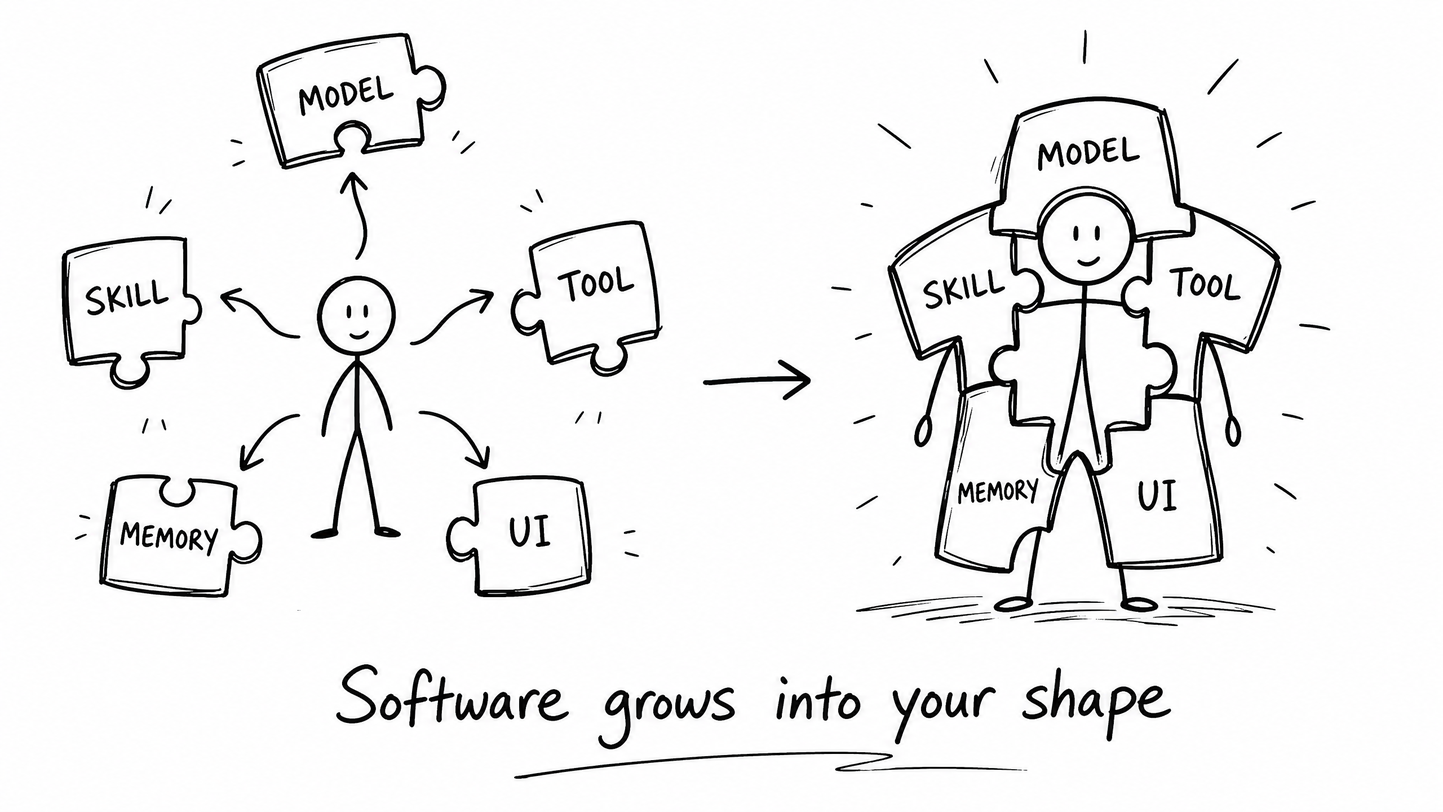
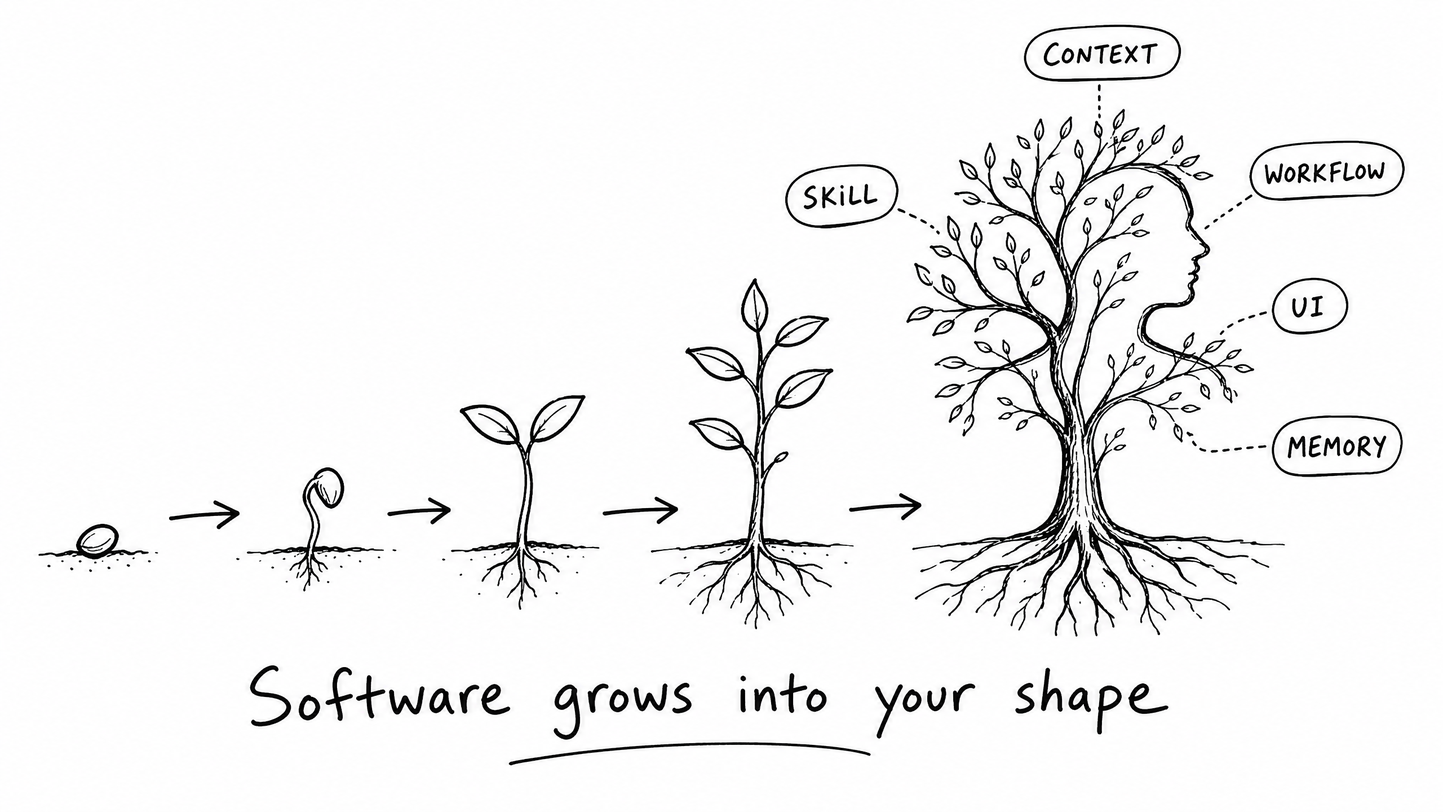
update: new content and images for AI orchestration engine post

diff --git a/source/_posts/ai-orchestration-engine.md b/source/_posts/ai-orchestration-engine.md
@@ -1,5 +1,5 @@
 ---
-title: "AI办公真正缺的，是一层让软件适应人的编排引擎"
+title: "AI办公真正缺的，是让软件长成你的样子"
 date: 2026-08-12
 updated: 2026-08-12
 tags:
@@ -13,149 +13,178 @@ featured_image: /gallery/ai-orchestration-engine/cover.jpg
 description: "AI 办公大战争的是给软件增加能力，但真正缺少的，是一层让软件慢慢长成使用者样子的编排引擎。"
 ---
 
-# AI办公真正缺的，是一层让软件适应人的编排引擎
+# AI办公真正缺的，是让软件长成你的样子
 
 ---
 
-## 一个越来越强烈的感觉
+## 半年里，我重复做了两次相同的事
 
-最近半年，我有一个越来越强烈的感觉。
+今年我自己做了两个东西。
 
-AI 产品越来越强，软件却没有我们想象中那么自由。打开 Codex、Claude Code、WorkBuddy、千问办公，再看看现在大量 Agent 产品，里面已经塞满了东西。模型、搜索、浏览器、文件、Skill、Agent、自动任务、MCP、Computer Use。以前做不到的事情，现在很多都能做了。
+第一个叫 Utter，是一套属于自己的 AI 语音输入法。最初的原因很简单，市面上的语音输入产品已经不少，识别速度、准确率和文字润色也都做得不错。可真正每天使用以后，我还是会不断遇到一些很细的需求。快捷键应该怎么触发，什么时候保留口语，什么时候整理成书面表达，技术名词怎么识别，当前窗口里的内容要不要成为上下文，不同软件里应该输出怎样的文字。
 
-可站在用户这边看，会发现一个很奇怪的问题：
+这些需求很难说有多大的市场。它们太细了，细到一家大公司很难专门为我设计。可当模型和开发工具都变强以后，我发现自己做一个似乎也没有那么难。于是我做了 Utter。
 
-**软件依然要求人适应软件。**
+几个月后，同样的事情又发生了一遍。这一次是 AI 编程。
 
-厂商决定聊天框长什么样，决定有哪些 Agent，设计几十个 Skill，准备一堆模板，再告诉用户：「你可以用 AI 完成很多事情。」用户确实拥有了更多能力，但用户自己的工作方式，依然很难真正进入产品结构。
+Claude Code、Codex 这些工具已经足够强，我还是做了 Code2。我没有继续使用行业里已经很常见的聊天框。Code2 采用「document-first」的交互，Prompt 本身是一份可以编辑和组织的文档，Skill 可以通过「/」直接插入文档，底下再统一驱动 Claude Code、Codex 和 Grok。
 
-我越来越怀疑，今天的 AI 办公大战，大家争的还主要是「给软件增加能力」。真正可能改变软件形态的那一层，还没有出现。
+我后来又把它的存储、Agent Loop、Git、记忆、场景和终端逐渐拆成插件。Code2 内部不再是一个固定程序加上一些扩展点，它更接近一张可以重新组合的插件图。插件声明自己依赖什么、提供什么，也可以在运行中被加载、替换和卸载。
 
-## Coding Agent 已经开始证明：统一的产品形态很难满足所有人
+回头看时，我才意识到，自己在半年里重复做了两次相同的事情。市场上已经有能用的软件，我仍然想做一个自己的版本。这里缺的并非某个功能，我真正想要的是：
 
-最近 Coding Agent 的变化很值得看。
+**让软件按照我的工作方式工作。**
 
-Claude Code 已经支持 CLAUDE.md、Skill、Hook、Subagent、MCP 和插件。Hook 甚至可以在 Agent 生命周期中的特定节点强制执行脚本、检查命令或者补充 Context。换句话说，程序员已经可以相当深入地修改 Claude Code 到底「怎么工作」。
+## Coding Agent 正在把完整软件拆成可以组合的几层
 
-OpenCode 又往前走了一步。它把自己的 TUI 也做成了 Server 的客户端，底下有一个可以独立运行的 HTTP Server，外部产品可以直接调用 OpenCode 的能力。于是 UI 和 Agent Backend 被明显拆开了。你完全可以保留 OpenCode 处理模型、Session、工具和 Agent 的部分，自己重新做一套交互。
+这几年 AI 编程产品的变化很快。
 
-最近 DeepSeek Harness 更直接。它的核心设计理念就一句话：「Everything is a Plugin。」模型可以换，Tool 可以换，Skill 可以换，Session、Sandbox、Filesystem、Agent Loop、编排方式甚至 UI 都可以作为插件重新组合。
+最早是代码补全。程序员继续控制整个过程，模型负责猜下一段代码。后来有了 Chat。模型开始读取文件、错误信息和项目资料，回答问题并生成修改建议。再后来，模型拿到了文件系统、终端、Git、浏览器和各种开发工具。用户给出一个目标，Agent 自己查代码、改文件、运行测试、读取报错，然后继续修正。
 
-为什么程序员这么喜欢折腾这些东西？
+到了 2026 年，新的变化已经不只发生在模型能力上。整个 Coding Agent 开始被拆开。
 
-很多时候并非 Claude Code 不够强。恰好因为它已经足够强，程序员开始对「工作方式」提出更细的要求。有人希望一个 Issue 对应一个 worktree，有人希望三个 Agent 同时工作，有人要求所有改动必须先跑测试，有人允许自动 commit 却绝对不允许自动 push，还有人需要左边放 Issue、中间看 Agent、右边实时看 Diff。也有人看到这些就头疼，只想打开 Terminal 输入一句话。
+T3 Code 把自己称为「agent harness control surface」。它不重新实现 Claude Code、Codex、Cursor、Grok Build 和 OpenCode，而是控制这些已经安装在用户电脑里的 Agent，再提供手机、网页和桌面界面。项目甚至明确表示，用户应该始终保留 Fork 并做出自己理想编辑器的能力。
 
-很难存在一套统一界面，把这些人全部服务好。所以程序员开始自己改。T3 Code 这种项目出现之后，连「重新做一个 Coding Agent 客户端」的成本都在下降。
+OpenCode 2 又把 Agent Backend 做成了一套可以调用的服务。Agent、Session、Skill、MCP、权限、上下文压缩和模型等能力，都开始拥有相对清晰的接口。
 
-这让我想到今年年初极客圈里出现的大量 AI 输入法。当底层能力足够便宜以后，人很自然会产生一个想法：「既然你的产品和我的习惯差一点，那我自己弄一个好了。」
+DeepSeek Harness 走得更远。它的核心理念直接叫作「Everything is a Plugin」。模型适配、工具、Session、Agent Loop 和 UI，都可以成为插件。目前项目仍处于开发者预览阶段，接口还会继续变化，可它表达出来的方向已经非常清楚。
 
-Coding Agent 正在快速走到这个状态。以后很多程序员可能都会拥有自己的 Harness。有人真的自己写，有人 Fork，有人只是组合 Skill、Hook、插件和规则。形态不同，背后的原因很一致：
-
-**统一的软件，越来越难覆盖每个人细碎又真实的工作习惯。**
-
-## 今天的办公 Agent 依然主要在给用户准备更多积木
-
-把视线从程序员移到办公市场，事情就有意思了。
-
-Codex 现在已经有 Skills 和 Automations，可以让用户把一组工作方法保存下来，再按照时间自动运行。OpenAI 还在继续把 Codex 从代码场景推向报告、表格、演示、研究和各种知识工作。WorkBuddy 也已经把多 Agent、企业知识、会议 Context、Skills 和各种办公能力组织起来。腾讯今年发布的企业版本，重点已经从一个人调用 Agent，推进到团队和 Agent 一起工作。
-
-这些方向都很有价值。可从更高一点的位置看，它们仍然很像：
+把这些项目放在一起看，一个 AI 编程产品大致可以拆成几层：
 
 ```text
-厂商准备模型 + 厂商准备 Agent + 厂商准备 Skill
-+ 厂商准备模板 → 用户挑选和调用
+用户界面
+个人规则与工作方式
+Agent运行和任务编排
+Context、Session与Memory
+Skills
+工具、权限与执行环境
+模型
 ```
 
-过去是 App Store，现在越来越像 Agent Store 和 Skill Store。以前我要修图，就找一个修图软件；以后我要做投研，就找一个投研 Agent；我要处理招聘，就启用一个招聘 Skill；我要每天总结行业新闻，就增加一个自动任务。
+![AI编程产品的分层结构](/gallery/ai-orchestration-engine/layers.jpg)
 
-AI 带来了非常大的能力提升，但产品和人的关系并没有完全改变。**产品依然提前定义了「你可能怎么工作」。** 而人的真实工作往往没有这么标准。
+用户界面在最上面，模型在最下面。中间这些层，决定模型看到什么、会使用什么方法、能操作什么、什么时候需要确认，以及一个任务应该怎样继续执行。过去，这些东西通常被焊在同一个产品里，现在它们开始可以被替换、组合和重新设计。
 
-两个销售都用 Salesforce，工作方式可以完全不同。两个老板都看经营数据，一个每天只关心三个数字，另一个先看异常门店。两个 HR 都招工程师，一个特别看重 GitHub，一个先看公司经历。这些细微差别，不可能全部提前做成模板。
+这就是为什么越来越多程序员会做自己的 Coding Agent。大家使用的底层模型可能相同，最终的软件却会完全不同。有人想让每个 Issue 自动创建一个 worktree，有人想同时运行三个 Agent，有人要求所有修改先运行测试，有人允许自动 commit 却不允许自动 push，有人喜欢在手机上检查任务，还有人只想保留一个终端和一个输入框。
 
-![两种产品形态的对比](/gallery/ai-orchestration-engine/comparison.jpg)
+这些差异很难全部归结为「功能」。它们描述的是一个人怎样工作。
 
-## 「养虾养马」已经开始靠近 Personal Harness，却依然需要用户自己养
+当软件开发成本越来越低以后，程序员会自然地把软件改成适合自己的形状。我做 Utter 和 Code2，本质上也在做同一件事。
 
-OpenClaw 和 Hermes 这类产品让我觉得特别有意思，因为它们已经开始向另一个方向走。
+## 当前的 AI 办公产品依然主要是厂商搭好积木
 
-OpenClaw 不只是聊天工具。它已经具有长期 Memory、Skills、Cron、Webhook、多 Agent、工具权限和多个交互入口。同一个 Agent 可以在不同渠道出现，记忆则持久化在自己的工作空间中。这已经很像一套个人 Agent 运行环境，模型只是其中一个部件，旁边还有记忆、工具、自动任务、Agent 和渠道。
+再看今天的办公 AI，情况就有意思了。
 
-为什么大家会说「养虾」？这个「养」字其实很准确。你慢慢给它装 Skill，给它接工具，让它记住自己的东西，改它的配置。时间久了，这只「虾」真的会和别人的不太一样。
+Codex 已经支持多个 Agent 并行工作、Skills 和 Automations。用户可以把重复任务保存下来，按照时间执行，再回来检查结果。WorkBuddy 企业版也在强调专家 Agent、团队协作、企业知识和 Skills 资产，希望把员工经验沉淀成组织可以管理和复用的能力。千问也在开放第三方 Agent 和 Skill，希望让更多能力进入自己的产品体系。
 
-Hermes 又往前走了一步。Nous Research 对它的定位甚至直接叫「self-improving AI agent」。它会从执行过的任务中形成 Skill，在以后使用这些 Skill 的时候继续修改，同时保存跨 Session 的个人信息和经验。这已经出现一个非常关键的变化：
+这些产品都在快速进步。可从用户看到的形态来看，它们大多仍然遵循一个熟悉的结构：
 
 ```text
-过去：用户配置 Harness → Agent 执行
-
-开始出现：Agent 执行 → 总结经验 → 修改 Harness → 下一次继续使用
+厂商设计Agent + 厂商准备Skill + 厂商制作模板
++ 厂商规定界面 → 用户从中挑选
 ```
 
-这条路很重要。相关研究也开始出现类似结果。Agent Workflow Memory 会从过去的任务轨迹里提炼可以复用的工作流，在 Mind2Web 和 WebArena 中都明显提高了任务完成率。2026 年关于企业任务程序记忆的研究，也开始直接研究「过去的工作方式能不能形成 Skill，再迁移到新的任务和模型上」。研究结果显示程序记忆确实能带来提升，同时也暴露出一个问题：从某个场景学出来的 Skill，很容易只适合原来的环境。
+以前有 App Store，现在开始有 Agent Store、Skill Store 和各种专家套件。用户想做投研，就启用一个投研专家；想分析数据，就选择一个数据 Skill；想每周生成报告，就创建一个自动任务。
 
-所以「Agent 会从工作中学习工作方式」已经不能算纯想象。只是今天还很早。OpenClaw 依然需要人花很多力气「养」，Hermes 已经开始自己学习 Skill，但离真正理解一个人复杂、含糊、充满例外的工作方法，还有很远。
+能力确实多了很多，真正的编排权依然集中在产品团队手里。AI 明明非常灵活，最终却经常被装进一套相对固定的软件中。聊天框放在哪里，任务怎么展示，哪些信息长期保留，Agent 怎样协作，结果以报告、表格还是页面呈现，这些通常已经被厂商决定。
 
-## 真正的问题在于：普通用户根本不会设计自己的工作流
+这也是今天很多 AI 产品给我的感觉。它们像一张摆满了高级食材的桌子。材料越来越丰富，用户依然只能点菜单上已经写好的菜。
 
-这里有一个很容易把整个想法推翻的问题。普通用户真的知道自己怎么工作吗？
+![摆满食材的桌子](/gallery/ai-orchestration-engine/food-table.jpg)
 
-我觉得答案挺有意思。**用户通常知道怎么做，却很难把自己怎么做完整地说出来。**
+## 用户说不清工作流程，不等于用户不知道怎么工作
 
-你问一个销售：「你筛选客户有什么规则？」他可能愣半天，然后告诉你：「也没什么规则，看情况。」
+这时候会出现一个很现实的反驳。普通用户真的有能力编排自己的软件吗？很多人连自己的工作流程都讲不清楚。
 
-可你真的给他十封客户邮件，他马上就会开始判断：「这个马上回。」「这个没那么急。」「这个客户不要发模板。」「这个虽然金额小，但是老板介绍的。」「这个先问我。」
+你问一个销售：「你是怎么判断客户优先级的？」他可能想一会儿，然后回答：「就看情况啊。」
 
-他不会写出完整的逻辑。事情真的出现以后，他知道自己想怎么处理。
+这句话听起来像是什么都没说。可你给他十封真实邮件，他马上就能判断：「这个现在回复。」「这个可以晚一点。」「这个客户不能用模板。」「这个订单虽然不大，但人是老板介绍的。」「这封邮件先让我自己看。」
 
-这正好解释了为什么让普通用户自己搭 n8n 式 Workflow，很可能走不远。Trigger、Condition、Branch、Iterator，这些概念本身就是另一种编程。LLM 并没有自动消灭这种复杂度。
+他写不出完整的判断规则，却能在真实情境里做出选择。大量工作经验本来就留在人的行动和判断里，没有被整理成流程图。
 
-最近 HCI 研究也在验证这个问题。ALLOY 的研究发现，人在面对包含个人偏好的复杂任务时，很难通过 Prompt 一次性说清过程要求。研究者换了一种方法：让用户直接演示一遍操作，然后由系统把演示转换成可查看、可修改、可复用的 Workflow。在一个小规模用户实验里，这种方式比单纯 Prompt 更能捕捉人的过程偏好。
+所以，让普通用户打开一个空白页面，然后要求他配置 Trigger、Condition、Branch、Agent 和 Skill，大概率走不远。那仍然是一种编程，只是节点变成了方块。
 
-所以我越来越觉得：
+用户更擅长的事情其实很有限，也很明确：他说出目标，做一次示范，看到结果后进行修改，遇到特殊情况时告诉系统「这次不同」。
 
-**「让用户自己编排」这个方向没有问题，「让用户自己画工作流」可能从一开始就问错了。**
+ALLOY 这项 2025 年的研究就在探索类似方向。研究者发现，用户很难单靠 Prompt 描述包含个人偏好的过程要求，于是让用户直接演示任务，再由系统生成透明、可以编辑和复用的工作流。在一项 12 人参与的实验中，演示式方法在捕捉用户意图和过程偏好方面优于纯 Prompt 与手工工作流。样本规模不大，可它指出了一个很重要的方向。
 
-## 真正缺少的是一层看不见的编排引擎
+用户不需要先理解自己的全部工作方式。他只要在真实工作里不断表达：「这里不对。」「下次直接做。」「这个人例外。」「超过这个金额先问我。」「报告别写那么长，我只看这三个数字。」剩下的形式化工作，应该交给 AI。
 
-假设一个运营每周一都会做一份销售报告。
+## 「养虾养马」已经走到了个人 Harness 的门口
 
-第一周，他告诉 AI：「整理一下上周销售情况。」AI 做完。他说：「取消订单不要算。」「华东单独放。」
+OpenClaw 和 Hermes 这类产品，已经开始接近这个方向。
 
-第二周又做。他说：「新店没有去年数据，不要算同比。」
+OpenClaw 不再只是一个聊天机器人。它有统一 Gateway、持久 Session、Memory、Skills、定时任务、工具、多 Agent 路由和多个消息入口。用户可以在聊天软件、网页、命令行和其他设备上调用同一个 Agent。
 
-第三周，他又纠正：「杭州上周有活动，这个增长不要解释成正常增长。」
+这也是「养虾」这个说法很传神的地方。用户给它接工具，装 Skill，调整规则，让它记住一些事情。时间久了以后，每个人的「虾」都会有点不同。
 
-半年以后，这个人可能一次 Workflow Builder 都没有打开。可是系统背后已经逐渐形成了一套东西：数据从哪里来，指标怎么算，什么情况算异常，哪些情况属于例外，什么时候自动运行，哪些地方需要确认，最终应该怎么展示。
+Hermes 又往前走了一点。它可以在完成复杂任务、经历错误、收到用户纠正以后，把可复用的方法保存成 Skill。Memory 用来保存较短的长期事实，Skill 用来保存更长的过程经验，用户还可以要求所有写入先经过审批。
 
-用户没有在编程。他一直在工作。
+这意味着 Agent 的工作经历已经开始反过来修改 Agent 自己。
 
-**AI 在旁边把他的工作过程慢慢编译成软件。** 这就是我现在真正期待的那一层。它组合的内容应该包括：Model、Context、Memory、Skill、Tool、Agent、Workflow、Permission、Automation，甚至 UI。
+```text
+以前是：人配置Agent → Agent执行任务
 
-UI 也很关键。今天大部分 Agent 最后还是回到一个聊天框。可老板每天早上真正想看到的，也许只是一个页面：「今天有三件事需要你决定。」下面一个合同，一个异常数据，一个 Offer。每件事情旁边只有「查看背景」「同意」「拒绝」。他根本不应该先输入一句：「帮我总结一下今天有哪些事情需要我处理。」
+现在逐渐变成：Agent执行任务 → 用户纠正 → Agent总结经验
+→ 形成或修改Skill → 下次继续使用
+```
 
-这个页面本身就是他的工作流。换一个老板，页面可能完全不同。
+这离我们讨论的方向已经很近。可它们还需要用户认真地「养」。用户仍要安装、配置和维护大量东西。系统形成的能力主要还是 Skill 和 Memory，界面也通常是固定的聊天、控制台或桌面应用。它们证明了个人 Agent 的需求存在，也证明用户愿意培养一套属于自己的系统。普通办公用户真正需要的版本，还应该再往前走一步。
 
-所以真正的 Personal Harness，最终修改的不能只有 Agent 怎么运行。**软件呈现在人面前的形状，也应该跟着工作变化。**
+## AI 应该把人的工作逐渐编译成软件
 
-![编排引擎的想象](/gallery/ai-orchestration-engine/orchestration.jpg)
+假设一个运营每周一都要做销售报告。
 
-## 我认为 AI 办公下一场竞争，会从「增加能力」转向「让软件长成你的样子」
+第一周，他对 AI 说：「整理一下上周销售情况。」AI 做完以后，他开始改。「取消订单不要算。」「华东单独放一块。」「同比变化超过 10% 的地方提醒我。」
 
-所以我现在对 AI 办公的判断已经越来越明确。
+第二周，他又补充：「新开的门店没有去年数据，不要计算同比。」
 
-今天大家还在疯狂补材料。更多模型，更多 MCP，更多 Skill，更多 Agent，更多模板，更多自动任务。这些都需要。但这些东西很可能只是下一阶段的原材料。
+第三周，他说：「杭州上周做了促销，这个增长不能直接解释成经营变好了。」
 
-真正缺少的，是中间那个「编译器」。它看着用户怎么工作，听用户怎么描述，观察用户怎么修改，记住用户在哪些地方拒绝、确认和例外处理，然后不断重新组织 Context、Skill、Agent、Workflow、权限和 UI。
+半年以后，这个用户可能从来没有打开过工作流编辑器，也没有写过 Skill。可系统背后已经逐渐形成了一套稳定结构：数据来自哪里，指标怎样计算，什么情况属于异常，哪些门店需要特殊处理，什么时候自动执行，什么结果需要人工确认，最终应该怎样展示。
 
-程序员已经开始通过 T3 Code、OpenCode、DeepSeek Harness 和各种插件，手工做这件事情。OpenClaw 证明有人愿意「养」一个属于自己的 Agent。Hermes 又开始尝试让 Agent 自己学习 Skill 和用户习惯。这些都像是在往同一个方向靠近。
+用户没有编程。他只是在正常工作。
 
-可面向普通办公用户的那个版本，我们还没有真正看到。
+**AI 把一次次修改、拒绝和确认，逐渐编译成 Context、Skill、Workflow、权限和自动任务。** 这才是我觉得 AI 办公真正缺少的那一层。
 
-它也许不会叫 Harness。不会出现 YAML。甚至不会告诉用户自己有几个 Agent。用户感受到的应该非常简单：「这个软件越来越像我的软件。」
+而且它最终还应该包括 UI。今天很多 Agent 无论完成什么任务，最后都会回到聊天框里。可一个老板早上真正需要看到的，可能只是一个页面：
 
-今天的软件公司先设计产品，再让几百万人适应同一套界面和流程。AI 给了我们一次把这个关系倒过来的机会。未来的软件，也许可以先提供模型和运行环境，然后在每个人每天的工作里，慢慢长成不同的样子。
+```text
+今天有3件事情需要你决定
 
-所以我现在最关心的，已经不再是谁又发布了一个新的办公 Agent。
+Acme合同
+报价等待确认
+[查看背景] [批准]
 
-真正值得关注的问题是：
+华东销售
+昨日下降12%
+[查看原因]
 
-**谁能做出那层普通用户看不到的编排引擎，把「AI 能做什么」，慢慢变成「软件应该怎么为这个人工作」。**
+候选人李某
+终面已经完成
+[查看反馈] [确认Offer]
+```
+
+他没有必要先打开聊天框，然后问一句：「今天有哪些事情需要我处理？」
+
+这个页面本身就是工作流程的一部分。换一个人，页面可能完全不同。所以未来的编排引擎不能只决定 Agent 怎么调用工具，还要决定工作以什么形式出现在用户面前。聊天、表格、报告、卡片、审批页面、通知，都应该根据任务和个人习惯重新组合。
+
+## AI 办公下一场竞争会围绕「谁能让软件适应人」
+
+现在的 AI 产品还在增加材料。更多模型，更多 Agent，更多 Skill，更多 MCP，更多连接器，更多自动任务。这些能力都很重要，也是下一阶段必须具备的基础。
+
+可材料越来越丰富以后，真正稀缺的会变成中间那个编译器。它观察用户怎样工作，理解用户的修改和拒绝，把隐含的习惯变成可以检查的规则，再不断调整 Context、Skill、Workflow、权限和 UI。
+
+程序员已经开始手工做这件事情。我做 Utter，是因为现有输入法离自己的习惯还差一点。我做 Code2，是因为聊天框和现有 Coding Agent 的组织方式，无法完全表达我想要的工作环境。T3 Code、OpenCode 2 和 DeepSeek Harness，则把这件事从个人折腾变成了更清晰的行业趋势。
+
+OpenClaw 证明用户愿意「养」一个属于自己的 Agent。Hermes 开始尝试让 Agent 从经验中修改自己。接下来真正值得等待的，是一套面向普通人的编排引擎。
+
+它不会要求用户学习 YAML，也不会要求用户理解 Agent、Context 和 Skill。用户只需要工作。说一句，改一次，拒绝一次，批准一次，示范一次。软件在这个过程中慢慢改变。
+
+到了那时，两个人即使订阅同一个办公产品，最后使用的也可能已经是两套完全不同的软件。
+
+今天的软件公司先设计产品，再让几百万人适应同一套界面和流程。AI 给了我们一次把这个关系倒过来的机会。
+
+**下一代 AI 办公产品真正需要完成的事情，是把「AI 能做什么」，逐渐变成「软件应该怎样为这个人工作」。**
+
+软件终于开始适应人，这可能才是 AI 对软件行业最深的一次改变。
